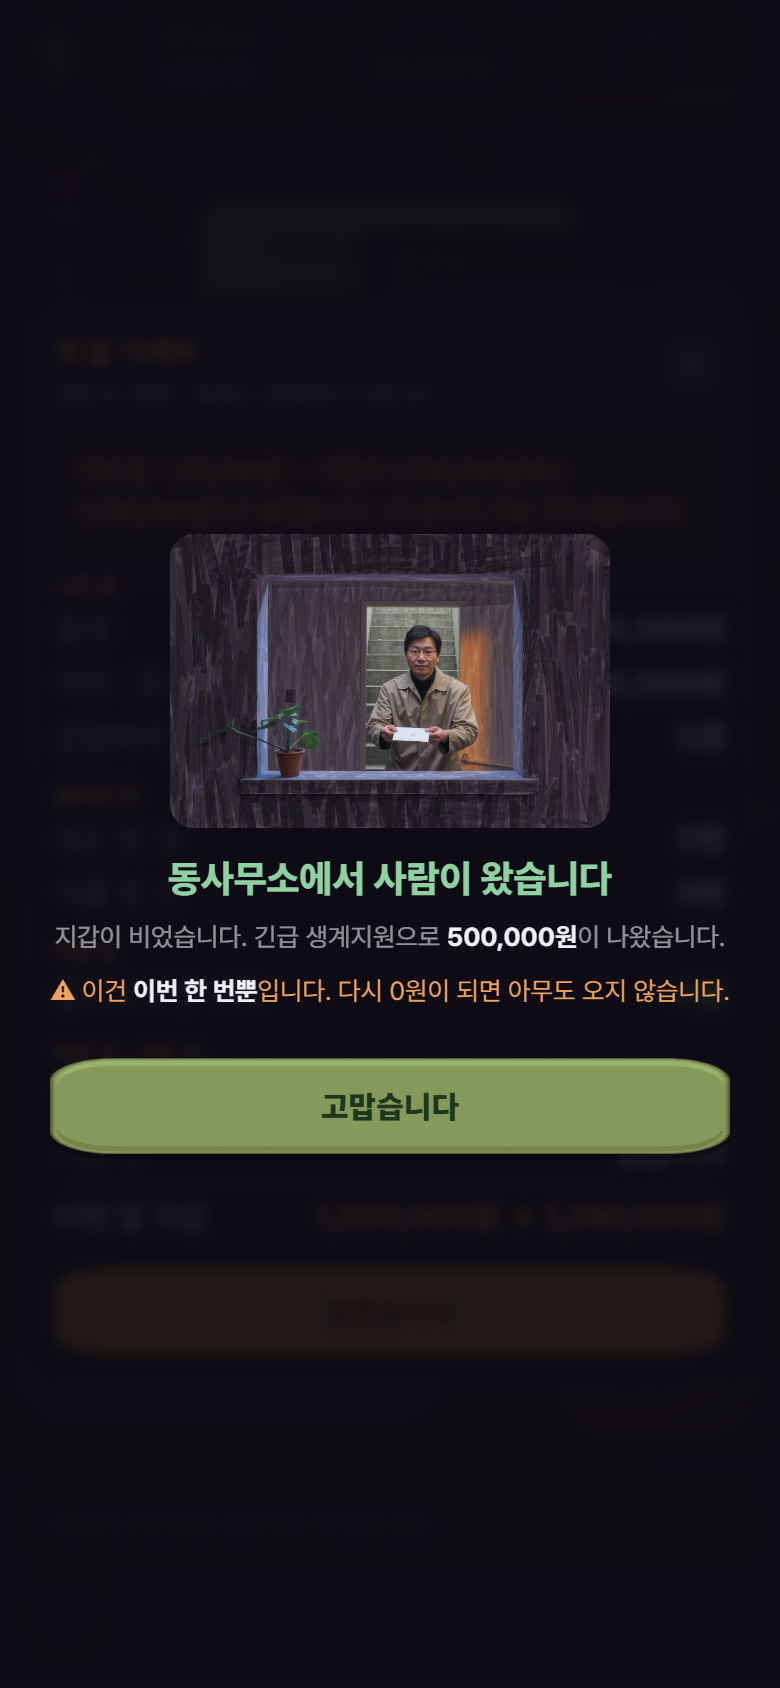
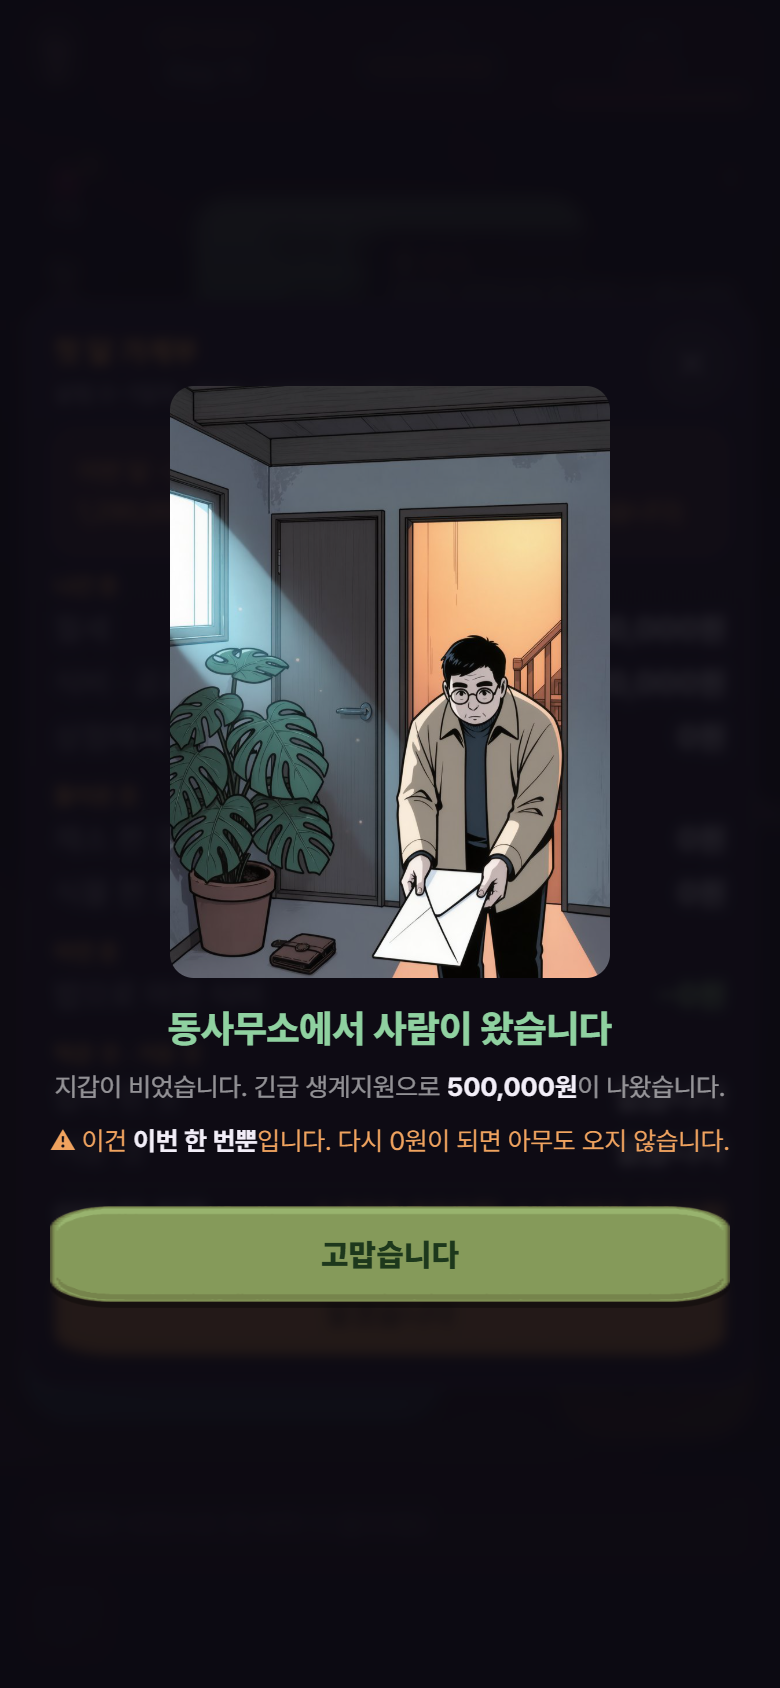
구호금 원화 — 실사를 걷고 게임 결(웹툰 선화)로 다시 뽑음
박사님: *"원화가 실사잖아…"*

★ 내 잘못의 모양: 프롬프트에 **「과슈·회화적」이라고만 적고 이 게임의 원화를 안 봤다.**
  같은 폴더의 `gameover_starved.png` 를 열어 보니 결이 전혀 달랐다 —
  **한국 웹툰 선화 + 플랫 셀 채색**, 가는 검은 윤곽, 탁한 청회색 야간 팔레트, 3:4 세로.
⇒ 원화를 새로 뽑기 전에는 **이미 있는 원화를 먼저 연다.** 「어울리는 결」을 말로
  지어내지 말고 **옆의 그림에서 읽는다.**

## 새 그림
`assets/ui/relief/relief_office.jpg` (760×1023 · 112KB · kling-image-v3_0_omni · 3:4)
게임오버 원화와 **같은 방**으로 이어진다: 왼쪽 높은 반지하 창에서 들어오는 푸른 빛,
그 빛을 받는 몬스테라, **바닥에 놓인 지갑**(게임오버의 그 지갑이다), 오른쪽 문 너머
계단에서 들어오는 따뜻한 주황. 동사무소 직원이 흰 봉투를 두 손으로 내민다.
★ 두 장이 **같은 자리의 앞뒤 장면**으로 읽힌다 — 여기서 봉투를 받고, 못 버티면 저기 쓰러진다.
★ 둘째 후보는 `relief_office_alt.jpg` 로 남겼다.

## 실측
첫 0원 → 덮개·지갑 500,000 · 그림 붙음(사진 갱신) / 두 번째 0원 → 덮개 없음 · 지갑 0 · 예외 0

Changed region(s): [[0.0615, 0.2156, 0.9538, 0.7701]]

diff --git a/game.html b/game.html
@@ -14,7 +14,7 @@
 <meta http-equiv="Pragma" content="no-cache">
 <meta http-equiv="Expires" content="0">
 <!-- 지금 보고 있는 판이 언제 것인지. 캐시가 의심되면 이걸 본다 -->
-<meta name="byeot-build" content="2026-08-17T-relief">
+<meta name="byeot-build" content="2026-08-17T-art">
 <!-- ★★ 글씨 (2026-08-06 박사님: "글씨체가 이상해. 한글이 안 읽히네 뭔가. 잘 안 보여").
      Pretendard 를 **실제로 받아 온다.** 이름만 적어 두면 그 글씨가 깔린 기계에서만 보이고,
      안 깔린 기계에서는 조용히 system-ui 로 떨어진다 — 화면이 기계마다 달라진다.
